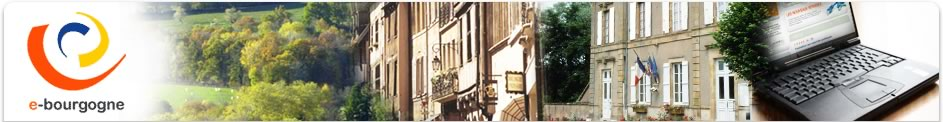
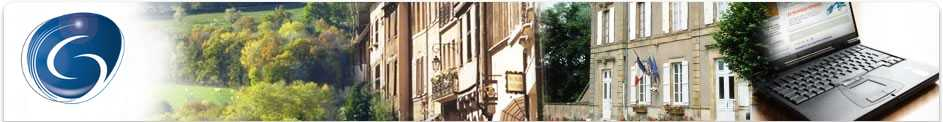
MyEC3/EC-13 Mise à jour feuilles de style et images en utilisant le thème de Megalis.

diff --git a/myec3-socle-webapp-module/myec3-socle-webapp/src/main/webapp/static/css/main.css b/myec3-socle-webapp-module/myec3-socle-webapp/src/main/webapp/static/css/main.css
@@ -62,7 +62,7 @@ img {border: 0;}
 hr {display: none;}
 
 h1 {float: left; width: 298px; margin: 10px 25px 0;}
-h2 {color: #039; background: #FFF; margin-bottom: 20px;}
+h2 {color: #000; background: #FFF; margin-bottom: 20px;}
 
 p, li, dt, dd {font-size: 0.8em;}
 ul {padding-left: 16px;}
@@ -152,7 +152,7 @@ fieldset p {float: left; width: 100%;}
 legend {
 	font-size: 0.95em;
 	font-weight: bold;
-	color: #039;
+	color: #000;
 	background: #FFF url(../images/bg_legend.png) 7px 5px no-repeat;
 	padding: 0 8px 0 15px;
 	margin-left: 20px;
@@ -182,10 +182,10 @@ input[type=submit] {
 	font-weight: bold;
 	text-transform: uppercase;
 	color: #FFF;
-	background: #FF4D07;
+	background: #1E68B1;
 	padding: 2px 5px 3px 5px;
 	margin: 0 5px;
-	border: 1px solid #C14918;
+	border: 1px solid #15477A;
 	-moz-border-radius: 4px;
 	-webkit-border-radius: 4px;
 	border-radius: 4px;
@@ -196,7 +196,7 @@ input[type=submit] {
 }
 input[type=submit]:hover {
 	color: #FFF;
-	background: #C14918;
+	background: #15477A;
 	border-color: #000;
 	-moz-box-shadow: none;
 	-webkit-box-shadow: none;
@@ -281,7 +281,6 @@ label.form-subscription {
 	width: 100%;
 	text-align: left;
 	color: #333;
-	background: #FFF url(../images/bg_header.png) 580px -200px no-repeat;
 	margin-bottom: 20px;
 	border: 1px solid #EEE;
 	-moz-border-radius: 10px;
@@ -355,7 +354,7 @@ label.form-subscription {
 #nav a:hover {
 	text-decoration: none;
   	color: #FFF;
-  	background: #FF4F09 url(../images/bg_tab_on.png) repeat-x;
+  	background: linear-gradient(#2458BF, #1E68B1);
 }
 
 /* Active section without link */
@@ -389,7 +388,7 @@ ul.tabs {
 	list-style-type: none;
 	padding: 0;
 	margin: 1px 0 20px 1px;
-	border-bottom: 3px solid #FF4D07;
+	border-bottom: 3px solid #1E68B1;
 }
 	ul.tabs li {
 		float: left;
@@ -413,7 +412,7 @@ ul.tabs {
 	}
 	ul.tabs a:hover {
 		color: #FFF;
-  		background: #FF4F09 url(../images/bg_tab_on.png) repeat-x;
+  		background: linear-gradient(#2458BF, #1E68B1);
 	}
 	/* Current tab */
 	ul.tabs li.active strong {
@@ -421,7 +420,7 @@ ul.tabs {
 		font-weight: bold;
 		text-decoration: none;
   		color: #FFF;
-  		background: #FF4F09 url(../images/bg_tab_on.png) repeat-x;
+  		background: linear-gradient(#2458BF, #1E68B1);
 		padding: 5px 15px;
 		-moz-border-radius-topright: 5px;
 		-moz-border-radius-topleft: 5px;
@@ -516,7 +515,7 @@ div.section {
 	border-radius: 8px;
 }
 	div.section h3 {
-		color: #FF4D07;
+		color: #000;
 		background: #FFF;
 		margin-bottom: 20px;
 	}
@@ -562,19 +561,19 @@ div.steps li {
 
 /* Active steps images */
 #step1.active {
-		color: #FF4F07;
+		color: #1E68B1;
 		background: transparent url(../images/bg_step.png) left -200px no-repeat;
 }
 #step2.active {
-		color: #FF4F07;
+		color: #1E68B1;
 		background: transparent url(../images/bg_step.png) left -250px no-repeat;
 }
 #step3.active {
-		color: #FF4F07;
+		color: #1E68B1;
 		background: transparent url(../images/bg_step.png) left -300px no-repeat;
 }
 #step4.active {
-		color: #FF4F07;
+		color: #1E68B1;
 		background: transparent url(../images/bg_step.png) left -350px no-repeat;
 }
 	
@@ -583,13 +582,13 @@ div.steps li {
 ul.links {
 	color: #000;
 	background: transparent url(../images/bg_dotted_h.gif) top left repeat-x;
-	list-style-image: url(../images/bullet.png);
+	list-style-image: url(../images/bg_legend.png);
 	padding-top: 10px;
 	margin: 20px 0 20px 0;
 }
 	ul.links a, ul.links a:link {
 		font-weight: bold;
-		color: #FF4D07;
+		color: #1E68B1;
 		background: transparent;
 	}
 
@@ -600,7 +599,7 @@ ul.links {
 	}
 	
 	ul.links a:visited {
-		color: #F90;
+		color: #1E68B1;
 		background: transparent;
 	}
 
@@ -667,7 +666,7 @@ div.actions-bar {
 		line-height: 25px;
 		padding-left: 10px;
 	}
-	div.actions-bar strong {color: #FF4F07; background: #FFF;}
+	div.actions-bar strong {color: #1E68B1; background: #FFF;}
 	
 	div.actions-bar ul {
 		float: right;
@@ -720,8 +719,8 @@ div.actions-bar {
 /* --- LIST PAGINATION --- */
 ul.pagination {
 	padding:0;
-	margin-top: 20px; 
- 	list-style-type:none; 
+	margin-top: 20px;
+ 	list-style-type:none;
 }
 
 ul.pagination li{
@@ -736,7 +735,7 @@ ul.pagination li:hover{
 }
 
 ul.pagination li.active{
-	background-color: orange;
+    background-color: #1E68B1;
 }
 
 ul.pagination li a{
@@ -873,7 +872,7 @@ select#agentList {
 p.mandatory {
 	font-size: 0.7em;
 	text-align: right;
-	color: #FF4F07;
+	color: #1E68B1;
 	padding-right: 5px;
 	margin-bottom: 10px;
 } 

diff --git a/myec3-socle-webapp-module/myec3-socle-webapp/src/main/webapp/static/css/tapestryhacks.css b/myec3-socle-webapp-module/myec3-socle-webapp/src/main/webapp/static/css/tapestryhacks.css
@@ -18,24 +18,24 @@
  
 /* Page de creation d'un organisme */
 
- .datePickerButtonLeft{
- 	width: 14px;
+.datePickerButtonLeft{
+	width: 14px;
     height: 14px;
     background: buttonface url("../images/arrow_left.png") no-repeat center center;
- }
+}
  
-  .datePickerButtonRight{
- 	width: 14px;
+.datePickerButtonRight{
+	width: 14px;
     height: 14px;
     background: buttonface url("../images/arrow_right.png") no-repeat center center;
- }
+}
 
 div.t-data-grid-pager {
 	text-align: center;
 }
 
 div.t-data-grid-pager span.current {
-	background: #FF4F07;	
+	background: #1E68B1;
 }
 
 table.t-data-grid {

diff --git a/myec3-socle-webapp-module/myec3-socle-webapp/src/main/webapp/static/css/dev.css b/myec3-socle-webapp-module/myec3-socle-webapp/src/main/webapp/static/css/dev.css
@@ -149,7 +149,7 @@ li.rootNoPoint {
 
 li.note_children {
     border-left: 1px dotted;
-    border-color: #FF4D07;
+    border-color: #1E68B1;
     font-size: 1em;
     list-style: none outside none;
     padding-left: 0.8em;
@@ -161,7 +161,7 @@ li.note_children {
 
 li.note {
     border-left: 1px dotted;
-    border-color: #FF4D07;
+    border-color: #1E68B1;
     font-size: 1em;
     list-style: none outside none;
     padding-left: 0.8em;
